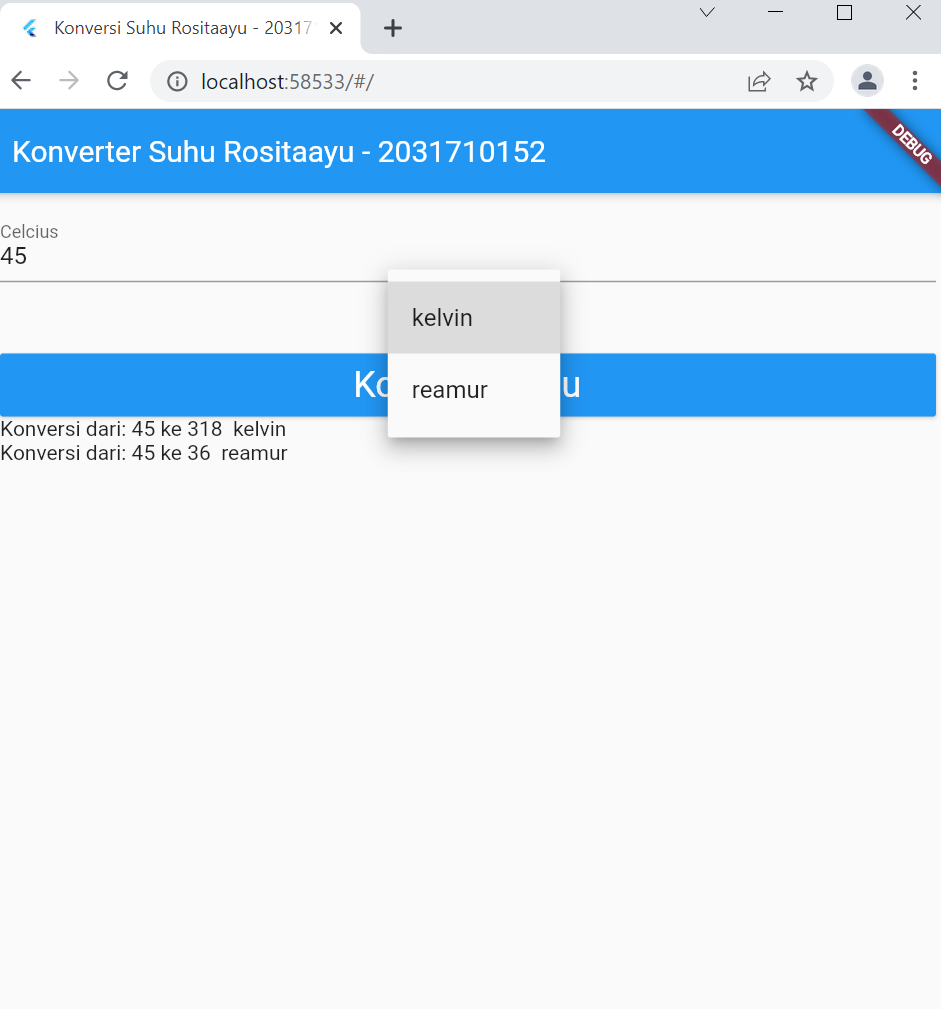
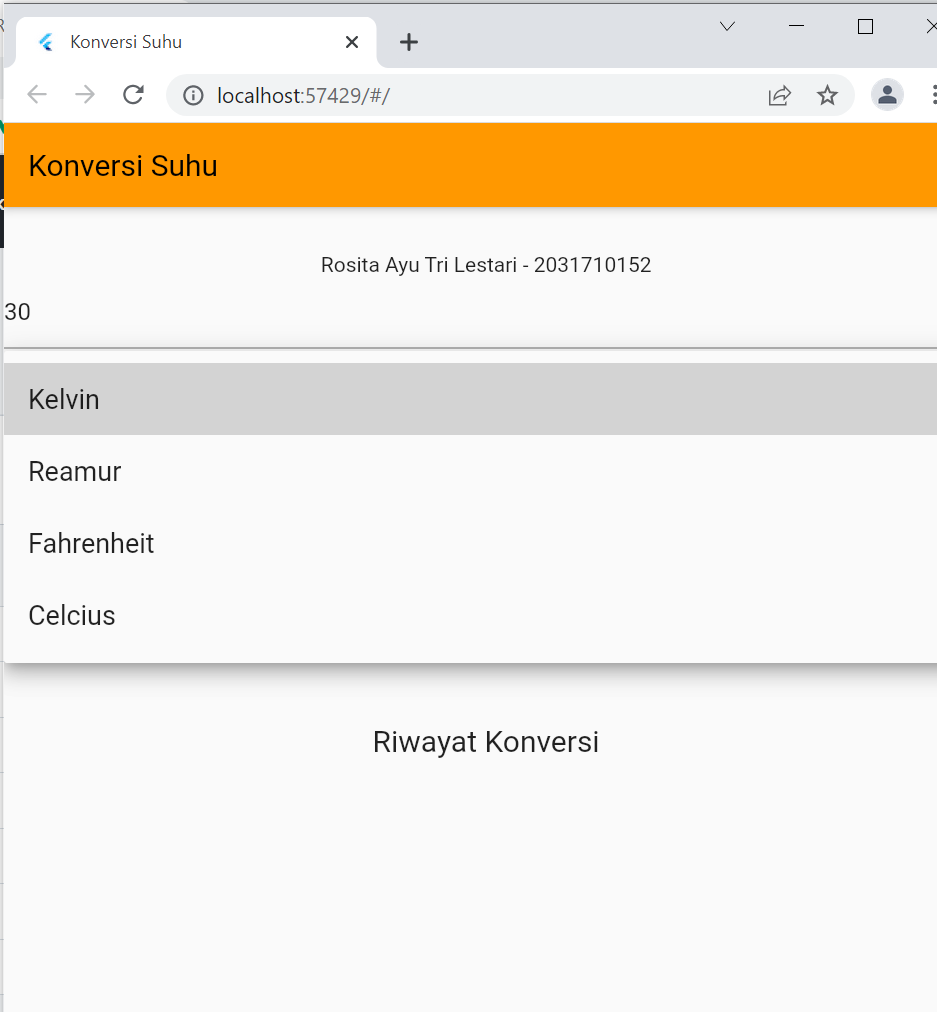
tugas4

diff --git a/lib/main.dart b/lib/main.dart
@@ -3,6 +3,7 @@ import 'package:flutter_map/widgets/dropdown.dart';
 import 'package:flutter_map/widgets/input.dart';
 import 'package:flutter_map/widgets/konversi.dart';
 import 'package:flutter_map/widgets/result.dart';
+import 'package:flutter_map/widgets/history.dart';
 
 void main() {
   runApp(const MyApp());
@@ -16,36 +17,37 @@ class MyApp extends StatefulWidget {
 }
 
 class _MyAppState extends State<MyApp> {
-  double _inputUser = 0;
-  double _result = 0;
-  String _selectedDropdown = "Pilih Suhu";
-  final _listSatuanSuhu = ["kelvin", "reamur"];
-  final List<String> _listHasil = [];
-  TextEditingController etInput = TextEditingController();
+  final inputController = TextEditingController();
 
-  _onChangedDropdown(String value) {
+  double _inputUser = 0;
+  String _selectedDropdown = "Kelvin";
+  double _result = 0;
+
+  List listHasil = [];
+  var listSatuanSuhu = ["Kelvin", "Reamur", "Fahrenheit", "Celcius"];
+
+  onChangedDropdown(newValue) {
     setState(() {
-      _selectedDropdown = value;
+      _selectedDropdown = newValue;
+      perhitunganSuhu();
     });
   }
 
-  _convertHandler() {
+  perhitunganSuhu() {
     setState(() {
-      if (etInput.text.isNotEmpty) {
-        _inputUser = double.parse(etInput.text);
-        switch (_selectedDropdown) {
-          case "kelvin":
-            _result = _inputUser + 273;
-            _listHasil.add("Konversi dari: $_inputUser ke $_result  kelvin");
-            break;
-          case "reamur":
-            _result = _inputUser * 4 / 5;
-            _listHasil.add("Konversi dari: $_inputUser ke $_result  reamur");
-            break;
-          default:
-            _listHasil.add("Suhu belum dipilih");
-            break;
-        }
+      _inputUser = double.parse(inputController.text);
+      if (_selectedDropdown == "Kelvin") {
+        _result = _inputUser + 273;
+        listHasil.add('Kelvin : $_result');
+      } else if (_selectedDropdown == "Reamur") {
+        _result = (4 / 5) * _inputUser;
+        listHasil.add('Reamur : $_result');
+      } else if (_selectedDropdown == "Fahrenheit") {
+        _result = (9 / 5) * _inputUser + 32;
+        listHasil.add('Fahrenheit : $_result');
+      } else {
+        _result = _inputUser;
+        listHasil.add('Celcius : $_result');
       }
     });
   }
@@ -54,40 +56,45 @@ class _MyAppState extends State<MyApp> {
   @override
   Widget build(BuildContext context) {
     return MaterialApp(
-      title: 'Konversi Suhu Rositaayu - 2031710152',
-      theme: ThemeData(
-        // This is the theme of your application.
-        //
-        // Try running your application with "flutter run". You'll see the
-        // application has a blue toolbar. Then, without quitting the app, try
-        // changing the primarySwatch below to Colors.green and then invoke
-        // "hot reload" (press "r" in the console where you ran "flutter run",
-        // or simply save your changes to "hot reload" in a Flutter IDE).
-        // Notice that the counter didn't reset back to zero; the application
-        // is not restarted.
-        primarySwatch: Colors.blue,
-        visualDensity: VisualDensity.adaptivePlatformDensity,
-      ),
-      home: Scaffold(
-        appBar: AppBar(
-          title: const Text("Konverter Suhu Rositaayu - 2031710152"),
+        debugShowCheckedModeBanner: false,
+        title: 'Konversi Suhu',
+        theme: ThemeData(
+          primarySwatch: Colors.orange,
+          visualDensity: VisualDensity.adaptivePlatformDensity,
         ),
-        body: Container(
-          margin: const EdgeInsets.all(8),
-          child: Column(
-            mainAxisAlignment: MainAxisAlignment.spaceBetween,
-            children: [
-              Input(etInput: etInput),
-              Dropdown(
-                  selectedDropdown: _selectedDropdown,
-                  listSatuanSuhu: _listSatuanSuhu,
-                  onChangedDropdown: _onChangedDropdown),
-              Konversi(convertHandler: _convertHandler),
-              Result(listHasil: _listHasil),
-            ],
+        home: Scaffold(
+          appBar: AppBar(
+            title: const Text("Konversi Suhu"),
           ),
-        ),
-      ),
-    );
+          body: Container(
+            padding: const EdgeInsets.only(top: 30),
+            child: Column(children: [
+              const Text('Rosita Ayu Tri Lestari - 2031710152',),
+              Input(inputController: inputController),
+              const SizedBox(
+                height: 10,
+              ),
+              Dropdown(
+                  listItem: listSatuanSuhu,
+                  selectedDropdown: _selectedDropdown,
+                  onDropdownChange: onChangedDropdown),
+              Result(result: _result),
+              Konversi(konvertHandler: perhitunganSuhu),
+              Container(
+                margin: const EdgeInsets.only(bottom: 20),
+                width: double.infinity,
+                height: 1,
+                color: Colors.grey,
+              ),
+              const Text(
+                '\nRiwayat Konversi\n',
+                style: TextStyle(
+                  fontSize: 20,
+                ),
+              ),
+              Expanded(child: History(listHasil: listHasil))
+            ]),
+          ),
+        ));
   }
 }

diff --git a/lib/widgets/dropdown.dart b/lib/widgets/dropdown.dart
@@ -1,29 +1,34 @@
-import 'package:flutter/cupertino.dart';
 import 'package:flutter/material.dart';
 
 class Dropdown extends StatelessWidget {
-  const Dropdown({
-    Key? key,
-    required this.selectedDropdown,
-    required this.listSatuanSuhu,
-    required this.onChangedDropdown,
-  }) : super(key: key);
+  const Dropdown(
+      {Key? key,
+      required this.listItem,
+      required this.selectedDropdown,
+      required this.onDropdownChange})
+      : super(key: key);
 
+  final List<String> listItem;
   final String selectedDropdown;
-  final List<String> listSatuanSuhu;
-  final Function onChangedDropdown;
+  final Function(dynamic) onDropdownChange;
 
   @override
   Widget build(BuildContext context) {
     return DropdownButton<String>(
-        items: listSatuanSuhu.map((String value) {
-          return DropdownMenuItem<String>(
-            child: Text(value),
-            value: value,
-          );
-        }).toList(),
-        onChanged: (value) {
-          onChangedDropdown(value);
-        });
+      isExpanded: true,
+      items: listItem.map((String value) {
+        return DropdownMenuItem<String>(
+          value: value,
+          child: Text(
+            value,
+            style: const TextStyle(
+              fontSize: 18,
+            ),
+          ),
+        );
+      }).toList(),
+      value: selectedDropdown,
+      onChanged: onDropdownChange,
+    );
   }
 }

diff --git a/lib/widgets/input.dart b/lib/widgets/input.dart
@@ -2,26 +2,21 @@ import 'package:flutter/material.dart';
 import 'package:flutter/services.dart';
 
 class Input extends StatelessWidget {
-
   const Input({
     Key? key,
-      required this.etInput,
-    }) : super(key: key);
+    required this.inputController,
+  }) : super(key: key);
 
-      final TextEditingController etInput;
-    
-    @override
+  final TextEditingController inputController;
+
+  @override
   Widget build(BuildContext context) {
-   return TextFormField(
-                controller: etInput,
-                decoration: const InputDecoration(
-                    hintText: "Masukkan Suhu Dalam Celcius",labelText: 'Celcius' ),
-                keyboardType:
-                    const TextInputType.numberWithOptions(decimal: true),
-                inputFormatters: [
-                  FilteringTextInputFormatter.allow(RegExp(r'[0-9.]'))],
-              );
+    return TextFormField(
+      controller: inputController,
+      keyboardType: TextInputType.number,
+      decoration: const InputDecoration(
+        hintText: 'Masukkan suhu dalam celcius',
+      ),
+    );
   }
 }
-            
-              

diff --git a/lib/widgets/konversi.dart b/lib/widgets/konversi.dart
@@ -1,28 +1,23 @@
 import 'package:flutter/material.dart';
 
 class Konversi extends StatelessWidget {
-  const Konversi({
-    Key? key,
-    required this.convertHandler,
-  }) : super(key: key);
+  final konvertHandler;
 
-  final Function convertHandler;
+  const Konversi({Key? key, required this.konvertHandler}) : super(key: key);
 
   @override
   Widget build(BuildContext context) {
-    return MaterialButton(
-      onPressed: () {
-        convertHandler();
-      },
-      child: const Text(
-        "Konversi Suhu",
-        style: const TextStyle(fontSize: 24),
-      ),
-      color: Colors.blue,
-      textColor: Colors.white,
-      minWidth: double.maxFinite,
-      padding: const EdgeInsets.all(8),
+    // ignore: sized_box_for_whitespace
+    return Container(
+      width: double.infinity,
       height: 50,
+      // ignore: deprecated_member_use
+      child: RaisedButton(
+        onPressed: konvertHandler,
+        color: Colors.orange,
+        textColor: Colors.white,
+        child: const Text("Konversi"),
+      ),
     );
   }
 }

diff --git a/lib/widgets/result.dart b/lib/widgets/result.dart
@@ -1,20 +1,27 @@
 import 'package:flutter/material.dart';
 
 class Result extends StatelessWidget {
-  const Result({
-    Key? key,
-    required this.listHasil,
-    }) : super(key: key);
+  const Result({Key? key, required this.result}) : super(key: key);
 
-  final List<String> listHasil;
+  final double result;
 
   @override
   Widget build(BuildContext context) {
-    return Expanded(
-        child: ListView.builder(
-            itemCount: listHasil.length,
-            itemBuilder: ((context, index) {
-              return Text(listHasil[index]);
-            })));
+    return Container(
+      margin: const EdgeInsets.only(top: 20, bottom: 20),
+      child: Column(
+        mainAxisAlignment: MainAxisAlignment.center,
+        children: [
+          const Text(
+            "Hasil",
+            style: TextStyle(fontSize: 20),
+          ),
+          Text(
+            result.toStringAsFixed(1),
+            style: const TextStyle(fontSize: 30),
+          )
+        ],
+      ),
+    );
   }
 }

diff --git a/lib/widgets/history.dart b/lib/widgets/history.dart
@@ -1,0 +1,25 @@
+import 'package:flutter/material.dart';
+
+class History extends StatelessWidget {
+  const History({Key? key, required this.listHasil}) : super(key: key);
+
+  final List listHasil;
+
+  @override
+  Widget build(BuildContext context) {
+    return ListView(
+      shrinkWrap: true,
+      children: listHasil.map(
+        (value) {
+          return Container(
+            margin: const EdgeInsets.all(10),
+            child: Text(
+              value.toString(),
+              style: const TextStyle(fontSize: 20),
+            ),
+          );
+        },
+      ).toList(),
+    );
+  }
+}
